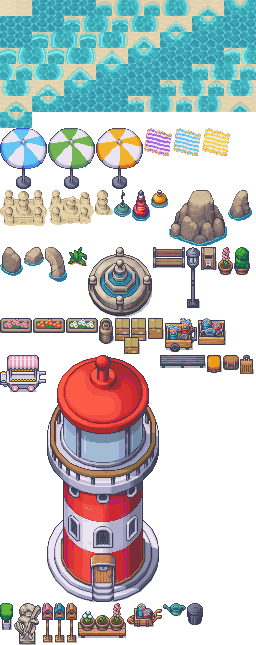
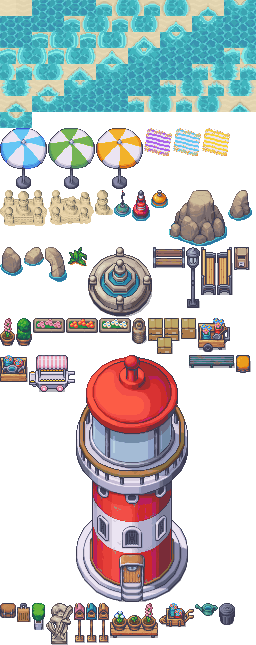
Cruce entre zonas sin salto y plaza con bancos de costado mirando la fuente
- Al cruzar de una zona exterior a otra el paso arranca en el borde y termina en la baldosa de llegada, sin saltar una baldosa; las puertas de borde quedan quietas mientras se completa el paso.
- Plaza: dos bancos de costado (Modern Exteriors) a cada lado de la fuente, mirándola; sale el banco del medio de la plaza.

Changed region(s): [[0.0, 0.4961, 1.0, 1.0], [0.7812, 0.3721, 0.9688, 0.4651]]

diff --git a/src/scenes/WorldScene.ts b/src/scenes/WorldScene.ts
@@ -3102,8 +3102,10 @@ export class WorldScene extends Phaser.Scene {
     p.teleport(p.tx + bx, p.ty + by);
   }
 
+  /** Until this time the border doors stay quiet: the player is still finishing the step that crossed one. */
+  private seamUntil = 0;
   private checkWalkDoor() {
-    if (this.transitioning || this.inputLocked) return;
+    if (this.transitioning || this.inputLocked || performance.now() < this.seamUntil) return;
     const p = this.player;
     const d = this.zone.def.doors.find((dd) => dd.walk && dd.x === p.tx && dd.y === p.ty);
     if (!d) return;
@@ -3121,7 +3123,16 @@ export class WorldScene extends Phaser.Scene {
     if (!seamless) audio.sfxPlay('door');
     if (d.to.startsWith('shop_') || (this.zoneId.startsWith('shop_') && d.to === 'plaza')) audio.sfxPlay('bell');
     if (!seamless) p.stop();
-    void runTask('world:walk-door', () => this.enterZone(d.to, d.tx, d.ty, d.dir, !seamless));
+    void runTask('world:walk-door', async () => {
+      const ok = await this.enterZone(d.to, d.tx, d.ty, d.dir, !seamless);
+      if (!ok || !seamless) return;
+      // the arrival tile lies one step past the border: start that step from the border so the walk never jumps
+      const step = { up: [0, -1], down: [0, 1], left: [-1, 0], right: [1, 0] }[d.dir];
+      const me = this.player, tx = me.tx, ty = me.ty;
+      me.x -= step[0] * TILE; me.y -= step[1] * TILE;
+      me.path = [[tx, ty]];
+      this.seamUntil = performance.now() + 450;
+    });
   }
 
   private updateNpc(n: NpcState, dt: number) {

diff --git a/src/data/props.ts b/src/data/props.ts
@@ -112,6 +112,9 @@ export const PROPS: Record<string, PropDef> = {
   sea_rock_arch: P('rock', 2, 1, 22, 35, '#8d8790', '', { solid: false, sombra: 'ninguna' }),
   beach_grass: P('bush', 1, 1, 19, 19, '#5db449', '#5db449', { solid: false, sombra: 'contacto' }),
   // plaza dressing from the same pack: planters on the square's flower beds.
+  // benches seen from the side, so seats can face what they look at instead of the camera
+  bench_side_l: P('bench', 1, 2, 16, 48, '#b07a4c'),
+  bench_side_r: P('bench', 1, 2, 16, 48, '#b07a4c'),
   planter_pink: P('flowers', 2, 1, 32, 15, '#f47fa0', '#ffffff', { sombra: 'contacto' }),
   planter_red: P('flowers', 2, 1, 32, 15, '#e0504a', '#ffffff', { sombra: 'contacto' }),
   planter_white: P('flowers', 2, 1, 32, 15, '#f6f3ee', '#ffffff', { sombra: 'contacto' }),

diff --git a/src/data/villageTerrain.ts b/src/data/villageTerrain.ts
@@ -138,8 +138,10 @@ export function createVillageTerrain() {
     rect(48, 40, 2, 2, 'l'); rect(60, 40, 2, 2, 'r');
   }
   prop('fountain', 53, 36);
-  prop('bench', 50, 37); prop('bench', 58, 37);
-  prop('bench', 52, 41); prop('board', 47, 31);
+  // seats face the fountain from both sides (the pack's side-view benches); nothing sits in the middle of the square
+  if (exteriorsWanted()) { prop('bench_side_l', 50, 36); prop('bench_side_r', 58, 36); }
+  else { prop('bench', 50, 37); prop('bench', 58, 37); prop('bench', 52, 41); }
+  prop('board', 47, 31);
   for (const [x, y] of [[50, 32], [58, 32], [50, 42], [58, 42]]) prop('street_lamp_l', x, y);
 
   // Shops stand on their own small front gardens. All paths begin at the actual texture's doorway.

diff --git a/scripts/build-limezu-exteriors.py b/scripts/build-limezu-exteriors.py
@@ -138,6 +138,8 @@ def add_single(key, name, replaces, folder, single):
 add_single('fountain', 'Fuente de la plaza', ['fountain'], '17_Garden', 'Garden_16x16_Fountain_3_4')
 add_single('bench', 'Banco de plaza', ['bench', 'wharf_bench'], '3_City_Props', 'City_Props_16x16_Bench_7')
 add_single('street_lamp', 'Farol', ['lamppost', 'street_lamp_l', 'street_lamp_r'], '3_City_Props', 'City_Props_16x16_Street_Lamp_5')
+add_single('bench_side_l', 'Banco de costado (mira a la derecha)', ['bench_side_l'], '3_City_Props', 'City_Props_16x16_Bench_6')
+add_single('bench_side_r', 'Banco de costado (mira a la izquierda)', ['bench_side_r'], '3_City_Props', 'City_Props_16x16_Bench_5')
 add_single('mailbox', 'Buzón', ['mailbox'], '3_City_Props', 'City_Props_16x16_Mailbox_1')
 add_single('pot_pink', 'Maceta con flores rosas', ['pot_rose'], '17_Garden', 'Garden_16x16_Big_Pink_Flower_Vase')
 add_single('pot_topiary', 'Maceta con arbusto', ['pot_cream'], '17_Garden', 'Garden_16x16_Bush_Potted_3')
